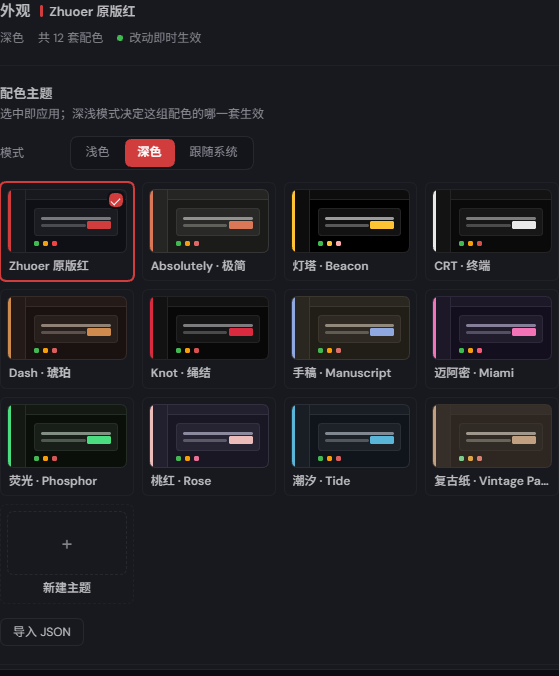
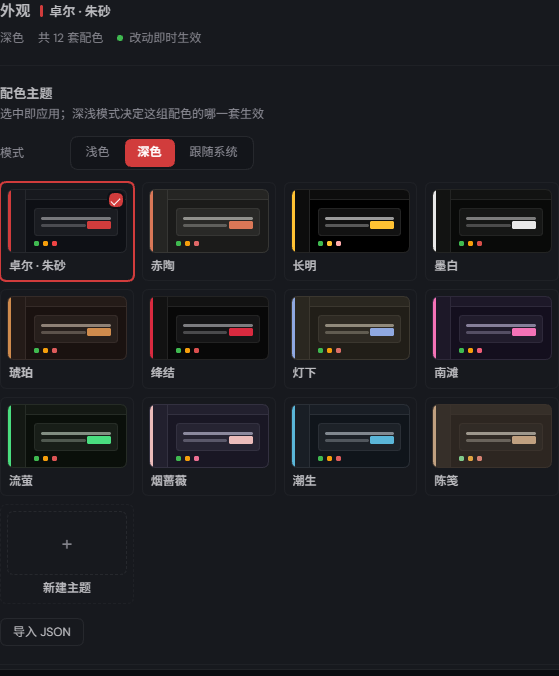
chore(visual): 改名后按 live-verify 配方重采视觉基线（7 张 + 2 张 docs 图）
主题改名后 9 张基线里显示名字的那几张（settings 三张、card 两张、editor 两张）需要重采；dialog 两张没有主题名，与 HEAD 字节一致，保持原样。

一次性 profile 起在 3257，采完已 kill 并删除 profiles/zr-verify。过程中补充了三条坑进 docs/live-verify.md：开一次编辑器会写一条草稿主题（主图必须先截）、宿主「预览版说明」气泡会飘进面板裁剪区、.zp-json 的祖先里也有 .zp-ed-panel（按 class 取会拿到抽屉那份 392x771 而不是弹层的 359x270）。

diff --git a/docs/live-verify.md b/docs/live-verify.md
@@ -73,7 +73,7 @@ DSH="D:/Programs/DeepSeek Harness/resources/runtime/cli/bin/dsh.cmd"
    `node scripts/verify-css-snapshot.mjs --capture visual/css-current`；
 7. 复验 + 整链：`node scripts/verify-visual.mjs && node scripts/verify-css-snapshot.mjs && npm test`。
 
-### 六个必踩的坑（都真踩过）
+### 必踩的坑（都真踩过）
 
 1. **视口覆盖只在单次自动化会话内有效**（跨调用失效），且必须在弹层**挂载前**设；事后设不重排；
 2. **元素截图会拼接**：面板/抽屉比视口高时，`.zp-root` 元素截图得到「内容 + 空白」，必须用 `clip` 取可见区；
@@ -81,6 +81,13 @@ DSH="D:/Programs/DeepSeek Harness/resources/runtime/cli/bin/dsh.cmd"
 4. **一次性 profile 会弹「预览版说明」**：先点「继续」，否则设置入口点不到；
 5. **图片 URL 不变**（`bg-dash.webp`）→ 浏览器可能用旧图，重启后按一次 `Ctrl+Shift+R`；
 6. **窄视口那次要是没重排**，三张图会字节相同——`shot-docs` 会直接报「与 xx 字节相同」。
+7. **开一次编辑器就多一条草稿主题**（写进 localStorage 的 `customThemes`）。所以三张主图必须**在开抽屉之前**截；
+   截完要么把草稿删掉，要么清 `dsh-zhuoer-theme:v1` 的 `customThemes`——否则面板上会多出「自定义 N」，
+   下次在干净 profile 上重采必然对不上。
+8. **宿主的「DeepSeek · 预览版说明」气泡会飘进面板裁剪区**（首次进入后十几秒内）。等它自己消失再截，
+   或者先给指针挪开；裁进基线就是焊死一块气泡，之后每次比对都在 4% 上下晃。
+9. **`.zp-json` 的祖先里也挂着 `.zp-ed-panel`**：按 class 往上找会拿到抽屉那份 392×771，
+   而导入弹层本身是 359×270。要按 `.zp-json` 自身的 `getBoundingClientRect()` 取，不要按祖先取。
 
 **为什么是面板本体而不是整窗**：整窗截图会把左侧会话列表、时间戳等**场景内容**焊进基线。
 换一个实例重采时，同样的代码也会因为会话历史不同而差异 4% 以上（实测 4.714%），
